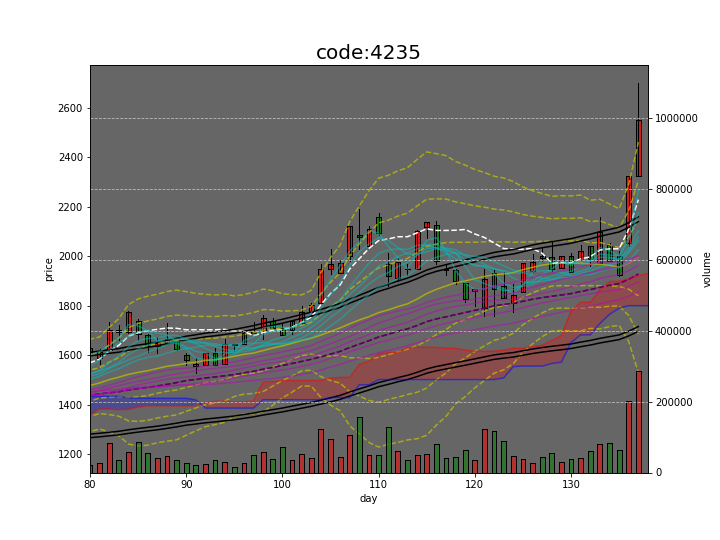
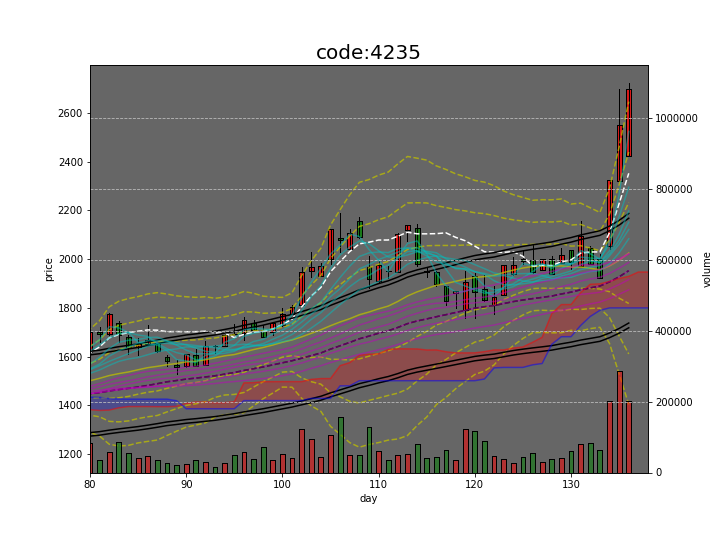
updated

diff --git a/python/Spyder/stock_share/stock_share.py b/python/Spyder/stock_share/stock_share.py
@@ -10,86 +10,144 @@ class StockShare:
     # ルール２「ボリンジャーサイクルの初期で買う」
     # ルール３「ボラティリティの低いものは買わない」
     # ルール４「28日間の終値最良日で買う」
-    # end=time:yyyy-mm-dd形式で記述する
+    # end_date : yyyy-mm-dd形式で記述する
     def __init__(self, code, end_date = None, term = 200):
         self.code = code
         self.end_date = end_date        
-        # 移動平均線（SMA）で平均する日付パラメータ
-        self.sma_date = 25
-        year, month, day = end_date.split('-')
-        self.end = datetime.date(int(year),int(month), 
-                                 int(day))
+        _year, _month, _day = end_date.split('-')
+        _year, _month, _day = int(_year), int(_month), int(_day)
+        self.end = datetime.date(_year, _month, _day)
         self.start = self.end - datetime.timedelta(days = term)
-        # 過去の株価データを取得する
-        q = jsm.Quotes()
-        target = q.get_historical_prices(code, jsm.DAILY, self.start, self.end)
-        
         self.ohcl = {}
-        date      = [data.date   for data in target]
-        open      = [data.open   for data in target]
-        close     = [data.close  for data in target]
-        high      = [data.high   for data in target]
-        low       = [data.low    for data in target]
-        volume       = [data.volume    for data in target]
-        # 日付が古い順に並べ替える
-        self.ohcl["date"]  = date[::-1]
-        self.ohcl["open"]  = open[::-1]
-        self.ohcl["close"] = close[::-1]
-        self.ohcl["high"]  = high[::-1]
-        self.ohcl["low"]   = low[::-1]
-        self.ohcl["volume"]   = volume[::-1]
+        # ボリンジャーバンドに用いる移動平均線（SMA）の窓
+        self.bolinger_window = 25
+        self._span1 = None
+        self._span2 = None
+    
+    def get_stock_data(self):
+        # 株価データを取得する
+        _quotes = jsm.Quotes()
+        _target = _quotes.get_historical_prices(self.code, jsm.DAILY, self.start, self.end)
         
-        if datetime.date.today().strftime("%Y-%m-%d") == end_date:
-            # 当日の株価データを取得する
+        # 株価情報をリスト形式に変換する
+        _date    = [_data.date.strftime("%Y-%m-%d")   for _data in _target]
+        _open    = [_data.open                        for _data in _target]
+        _close   = [_data.close                       for _data in _target]
+        _high    = [_data.high                        for _data in _target]
+        _low     = [_data.low                         for _data in _target]
+        _volume  = [_data.volume                      for _data in _target]
+        
+        # 日付が古い順に並べ替える
+        self.ohcl["date"]     = _date[::-1]
+        self.ohcl["open"]     = _open[::-1]
+        self.ohcl["close"]    = _close[::-1]
+        self.ohcl["high"]     = _high[::-1]
+        self.ohcl["low"]      = _low[::-1]
+        self.ohcl["volume"]   = _volume[::-1]
+        
+        # 過去のデータではなく、最新の日付をend_dateに指定した場合の処理を以下に示す
+        if  self.end_date == datetime.date.today().strftime("%Y-%m-%d"):
             # 日本経済新聞のページから現在値（当日の終値）　を取得する
-            response = requests.get("https://www.nikkei.com/nkd/company/?scode=" + str(code))
-            soup = BeautifulSoup(response.content, 'html.parser')
-            tags = soup.find(attrs = {"class": "m-stockPriceElm_value now"})
-            target = q.get_price(code)
-            if tags != None:  
-                for i, stock_price_tag in enumerate(tags):
+            # ※get_priceメソッドで取得したデータの終値が前日の終値のままになっていたため
+            _res = requests.get("https://www.nikkei.com/nkd/company/?scode=" + str(self.code))
+            _soup = BeautifulSoup(_res.content, 'html.parser')
+            _tags = _soup.find(attrs = {"class": "m-stockPriceElm_value now"})
+            _target = _quotes.get_price(self.code)
+            
+            if _tags != None:  
+                for i, _stock_price_tag in enumerate(_tags):
                     # 2番目の文字は「円」のため、無視する
                     if i == 0:
-                        current_price = float(stock_price_tag.string.replace(",", ""))
+                        current_price = float(_stock_price_tag.string.replace(",", ""))
             else:
-                current_price = target.close
-        
+                # 日経新聞のページから現在の終値を取得できなかった場合はやむを得ずget_priceメソッドの値を採用する
+                current_price = _target.close
+            
             # 当日の日足の更新時間が不明なため、前日の値と比較して動作を変える
-        
-            if self.ohcl["high"][-1] == target.high and self.ohcl["low"][-1] == target.low and self.ohcl["open"][-1] == target.open:
+            # 書き方が汚いため、改善する必要あり
+            if self.ohcl["high"][-1] == _target.high and self.ohcl["low"][-1] == _target.low and self.ohcl["open"][-1] == _target.open:
                 self.ohcl["close"][-1] = current_price
             
             else:
-                self.ohcl["date"].append(target.date)
-                self.ohcl["open"].append(target.open)
-                self.ohcl["high"].append(target.high)
-                self.ohcl["low"].append(target.low)
-                self.ohcl["volume"].append(target.volume)
+                self.ohcl["date"].append(_target.date)
+                self.ohcl["open"].append(_target.open)
+                self.ohcl["high"].append(_target.high)
+                self.ohcl["low"].append(_target.low)
+                self.ohcl["volume"].append(_target.volume)
                 self.ohcl["close"].append(current_price)
-        
-        self.span1 = None
-        self.span2 = None
-    
-    def calc_cloud(self):
-        # 一目均衡雲を計算する
-        # 転換線
-        high_series = pd.Series(self.ohcl["high"])
-        low_series = pd.Series(self.ohcl["low"])
-        high9 = high_series.rolling(window = 9,center=False).max()
-        low9 = low_series.rolling(window = 9,center=False).min()
-        change_line = ( high9 + low9 ) / 2
-        # 基準線
-        high26 = high_series.rolling(window = 26,center=False).max()
-        low26 =  low_series.rolling(window = 26,center=False).min()
-        standart_line = ( high26 + low26 ) / 2
-        # 先行スパン1
-        self.span1 = (change_line + standart_line) / 2
-        # 先行スパン2
-        high52 = high_series.rolling(window = 52,center=False).max()
-        low52 =  low_series.rolling(window = 52,center=False).min()
-        self.span2 = ( high52 + low52 ) / 2
+                
+    def __plt_bolinger_band(self, ax):
+        _series = pd.Series(self.ohcl["close"])
+        # 移動平均線
+        base = _series.rolling(window = self.bolinger_window).mean()
+        base.plot(ax = ax, color = "y", alpha = 0.75)
+        # シグマ
+        _sigma = _series.rolling(window = self.bolinger_window).std(ddof = 0)
+        _SIGMA_RATES = [1, 2, 3, -1, -2, -3]
+        for _rate in _SIGMA_RATES:
+            sigma_line  = base + _sigma * _rate
+            sigma_line.plot(ax = ax, ls = "--", color = "y",alpha = 0.75)
             
-    def plt(self, is_savefig = False):
+    def __plt_envelope(self, ax):
+        _series = pd.Series(self.ohcl["close"])
+        base = _series.rolling(window = 45).mean()
+        base.plot(ax = ax, ls = "--", color = 'k')
+        _ENVELOPE_RATES = [1.11,1.12,0.89,0.88]
+        for _rate in _ENVELOPE_RATES:
+            env = base * _rate
+            env.plot(ax = ax, color = 'k')
+    
+    def __plt_upper_support_line(self, ax):
+        # 上昇時のサポートラインとして13日ボリンジャーバンド1シグマを表示する
+        _series = pd.Series(self.ohcl["close"])
+        _base13 = _series.rolling(window = 13).mean()
+        _sigma13 = _series.rolling(window = 13).std(ddof = 0)
+        upper13_sigma  = _base13 + _sigma13
+        upper13_sigma.plot(ax = ax, ls = "--",  color = "w")
+        
+    def __plt_GMMA(self, ax):
+        # GMMAを表示する
+        _series = pd.Series(self.ohcl["close"])
+        _SHORT_WINDOWS = [3,5,8,10,12,15]
+        for window in _SHORT_WINDOWS:
+            base = _series.rolling(window = window).mean()
+            base.plot(ax = ax, color = "c", alpha = 0.5)            
+        _LONG_WINDOWS = [30,35,40,45,50,60]
+        for window in _LONG_WINDOWS:
+            base = _series.rolling(window = window).mean()
+            base.plot(ax = ax, color = "m", alpha = 0.5)
+            
+    def __plt_volume(self, ax):
+        # 出来高を表示する
+        ax2 = ax.twinx()
+        ax2.set_ylim([0, max(self.ohcl["volume"])*4])
+        ax2.set_ylabel("volume")
+        finance.volume_overlay(ax2, self.ohcl["open"], 
+                               self.ohcl["close"],
+                               self.ohcl["volume"],
+                               colorup='r', colordown='g',
+                               width=0.5, alpha=0.5)
+        
+    def __calc_leading_span(self):
+        """一目均衡雲に用いる先行スパンを計算する"""
+        # 転換線
+        _high_series = pd.Series(self.ohcl["high"])
+        _low_series = pd.Series(self.ohcl["low"])
+        _high9 = _high_series.rolling(window = 9,center=False).max()
+        _low9  = _low_series.rolling(window = 9,center=False).min()
+        _change_line = (_high9 + _low9)/2
+        # 基準線
+        _high26 = _high_series.rolling(window = 26,center=False).max()
+        _low26  = _low_series.rolling(window = 26,center=False).min()
+        _standart_line = (_high26 + _low26)/2
+        # 先行スパン1
+        self._span1 = (_change_line + _standart_line) / 2
+        # 先行スパン2
+        _high52 = _high_series.rolling(window = 52,center=False).max()
+        _low52  = _low_series.rolling(window = 52,center=False).min()
+        self._span2 = (_high52 + _low52)/2
+            
+    def plt(self, savefig = False):
         # 動作が重くならないようにクリアする
         plt.clf()
         fig = plt.figure(figsize = (10, 7.5))
@@ -100,93 +158,40 @@ class StockShare:
         ax.autoscale_view()
         ax.patch.set_facecolor('black')# 背景色
         ax.patch.set_alpha(0.6)# 透明度
-        # ローソク足を上側75%に収める
-        #bottom, top = ax.get_ylim()
-        #ax.set_ylim(bottom - (top - bottom) / 4, top)
-        
+ 
         finance.candlestick2_ochl(ax, opens  = self.ohcl["open"], 
                                       highs  = self.ohcl["high"],
                                       lows   = self.ohcl["low"], 
                                       closes = self.ohcl["close"], 
                                       width = 0.5, colorup = 'r', 
-                                      colordown = 'g', alpha = 0.75)
-        # ボリンジャーバンドを計算する
-        series = pd.Series(self.ohcl["close"])
-        base = series.rolling(window = self.sma_date).mean()
-        base.plot(ax = ax, color = "y",alpha = 0.75)
-        #plt.plot(base, color="#1e8eff")
-        sigma = series.rolling(window = self.sma_date).std(ddof = 0)
-        upper_sigma  = base + sigma
-        upper_sigma.plot(ax = ax, ls = "--", color = "y",alpha = 0.75)
-        upper2_sigma = base + sigma * 2
-        upper2_sigma.plot(ax = ax, ls = "--", color = "y",alpha = 0.75)
-        upper3_sigma = base + sigma * 3
-        upper3_sigma.plot(ax = ax, ls = "--", color = "y",alpha = 0.75)
-        lower_sigma  = base - sigma
-        lower_sigma.plot(ax = ax, ls = "--", color = "y",alpha = 0.75)
-        lower2_sigma = base - sigma * 2
-        lower2_sigma.plot(ax = ax, ls = "--", color = "y",alpha = 0.75)
-        lower3_sigma = base - sigma * 3
-        lower3_sigma.plot(ax = ax, ls = "--", color = "y",alpha = 0.75)
-        
-        # 上昇時のサポートラインとして13日ボリンジャーバンド1シグマを表示する
-        base13 = series.rolling(window = 13).mean()
-        sigma13 = series.rolling(window = 13).std(ddof = 0)
-        upper13_sigma  = base13 + sigma13
-        upper13_sigma.plot(ax = ax, ls = "--",  color = "w")
-        
-        # エンベロープを計算する
-        base2 = series.rolling(window = 45).mean()
-        base2.plot(ls = "--", color = 'k')
-        upper_env = base2 * (1 + 0.12)
-        upper_env.plot(color = 'k')
-        upper_env2 = base2 * (1 + 0.11)
-        upper_env2.plot(color = 'k')
-        lower_env = base2 * (1 - 0.12)
-        lower_env.plot(color = 'k')
-        lower_env2 = base2 * (1 - 0.11)
-        lower_env2.plot(color = 'k')
-        
-        # 一目均衡雲を表示する
-        self.calc_cloud()
-        x_data = [x for x in range(26, 26+len(self.span1))]
-        plt.plot(x_data, self.span1, color = "red",alpha = 0.5)
-        plt.plot(x_data, self.span2, color = "blue",alpha = 0.5)
-        plt.fill_between(x_data, self.span1, self.span2, where=self.span1>self.span2, facecolor='red',alpha = 0.25)
-        plt.fill_between(x_data, self.span1, self.span2, where=self.span1<self.span2, facecolor='blue', alpha = 0.25)
-        
-        # GMMAを表示する
-        series = pd.Series(self.ohcl["close"])
-        short_windows = [3,5,8,10,12,15]
-        for window in short_windows:
-            base = series.rolling(window = window).mean()
-            base.plot(ax = ax, color = "c", alpha = 0.5)
+                                      colordown = 'g', alpha = 0.75) 
+        self.__plt_bolinger_band(ax)
+        self.__plt_envelope(ax)
+        self.__plt_upper_support_line(ax)
+        self.__plt_GMMA(ax)
+        self.__plt_volume(ax)
             
-        long_windows = [30,35,40,45,50,60]
-        for window in long_windows:
-            base = series.rolling(window = window).mean()
-            base.plot(ax = ax, color = "m", alpha = 0.5)
-        
-        # 出来高を表示する
-        ax2 = ax.twinx()
-        ax2.set_ylim([0, max(self.ohcl["volume"]) * 4])
-        ax2.set_ylabel("volume")
-        finance.volume_overlay(ax2, self.ohcl["open"], self.ohcl["close"], self.ohcl["volume"], colorup='r', colordown='g', width=0.5, alpha=0.5)
-        #ax2.set_ylim([0, self.ohcl["volume"].max() * 0.5])
+        # 一目均衡雲をプロットする
+        self.__calc_leading_span()
+        x_data = [x for x in range(26, 26 + len(self._span1))]
+        plt.plot(x_data, self._span1, color = "red",alpha = 0.5)
+        plt.plot(x_data, self._span2, color = "blue",alpha = 0.5)
+        plt.fill_between(x_data, self._span1, self._span2, where=self._span1>self._span2, facecolor='red',alpha = 0.25)
+        plt.fill_between(x_data, self._span1, self._span2, where=self._span1<self._span2, facecolor='blue', alpha = 0.25)
         
         plt.xlim([80, 138])
         plt.grid(True, linestyle='--', color='0.75')
               
         # 画像を保存する
-        if is_savefig == True:
-            #date = self.end_date.replace("-", "")
-            #fig_name = date + "_" + self.code + ".png"
+        if savefig == True:
             fig_name = str(self.code) + ".png"
             plt.savefig(fig_name)
+            
         plt.show()
+        
     def calc_change_in_price(self):
         # 騰落率を計算する
-        return (self.ohcl["close"][-1] - self.ohcl["close"][-2]) / self.ohcl["close"][-2] * 100
+        return (self.ohcl["close"][-1] - self.ohcl["close"][-2])/self.ohcl["close"][-2]*100
     
     def is_high_value_for28days(self):
         # ルール４「28日間の終値最良日で買う」
@@ -198,11 +203,11 @@ class StockShare:
             return False
      
     def is_over_cloud(self):
-        self.calc_cloud()
+        self.__calc_leading_span()
         if self.ohcl["close"].index(self.ohcl["close"][-1]) < 26 or self.ohcl["close"].index(self.ohcl["close"][-1]) < 26:
             return True
-        current_span1 = self.span1[self.ohcl["close"].index(self.ohcl["close"][-1]) -26]
-        current_span2 = self.span2[self.ohcl["close"].index(self.ohcl["close"][-1]) -26]
+        current_span1 = self._span1[self.ohcl["close"].index(self.ohcl["close"][-1]) -26]
+        current_span2 = self._span2[self.ohcl["close"].index(self.ohcl["close"][-1]) -26]
         if self.ohcl["close"][-1] > current_span1 and self.ohcl["close"][-1] > current_span2:
             return True
         else:
@@ -210,7 +215,8 @@ class StockShare:
 
 if __name__ == "__main__":
     today = datetime.date.today()
-    stock_share = StockShare(7647, end_date = today.strftime("%Y-%m-%d"))
+    stock_share = StockShare(2489, end_date = today.strftime("%Y-%m-%d"))
+    stock_share.get_stock_data()
     stock_share.plt()
     ratio = stock_share.calc_change_in_price()
     print(ratio)

diff --git a/python/Spyder/stock_share/scraping_from_toredabi.py b/python/Spyder/stock_share/scraping_from_toredabi.py
@@ -49,6 +49,7 @@ class ScrapingFromToredabi:
         failure_dir = os.path.join(script_dir, "toredabi", "failure")
         for holding_info in self.holdings_info:
             stock_share = StockShare(holding_info["code"], today.strftime("%Y-%m-%d"))
+            stock_share.get_stock_data()
             print(holding_info["name"])
             # 画像を保存するディレクトリに移動する
 

diff --git a/python/Spyder/stock_share/machine_learning.py b/python/Spyder/stock_share/machine_learning.py
@@ -139,6 +139,7 @@ if __name__ == "__main__":
     code = 3849
     # 株価（終値）を取得する 
     stock_share = StockShare(code, end_date = today.strftime("%Y-%m-%d"), term = 300)
+    stock_share.get_stock_data()
     ml = MachineLearning(stock_share.ohcl["close"])
     #LSTMは入力値を0~1に正規化しておくと安定した出力が得られる
     ml.normalization_zero_one()

diff --git a/python/Spyder/stock_share/main.py b/python/Spyder/stock_share/main.py
@@ -22,6 +22,7 @@ today = datetime.date.today()
 for code, name in zip(codes, names):
     print(".", end = "")
     stock_share = StockShare(code, today.strftime("%Y-%m-%d"))
+    stock_share.get_stock_data()
     if stock_share.is_high_value_for28days() == True and stock_share.is_over_cloud() == True:
         print("\n" + name)
         stock_share.plt()
